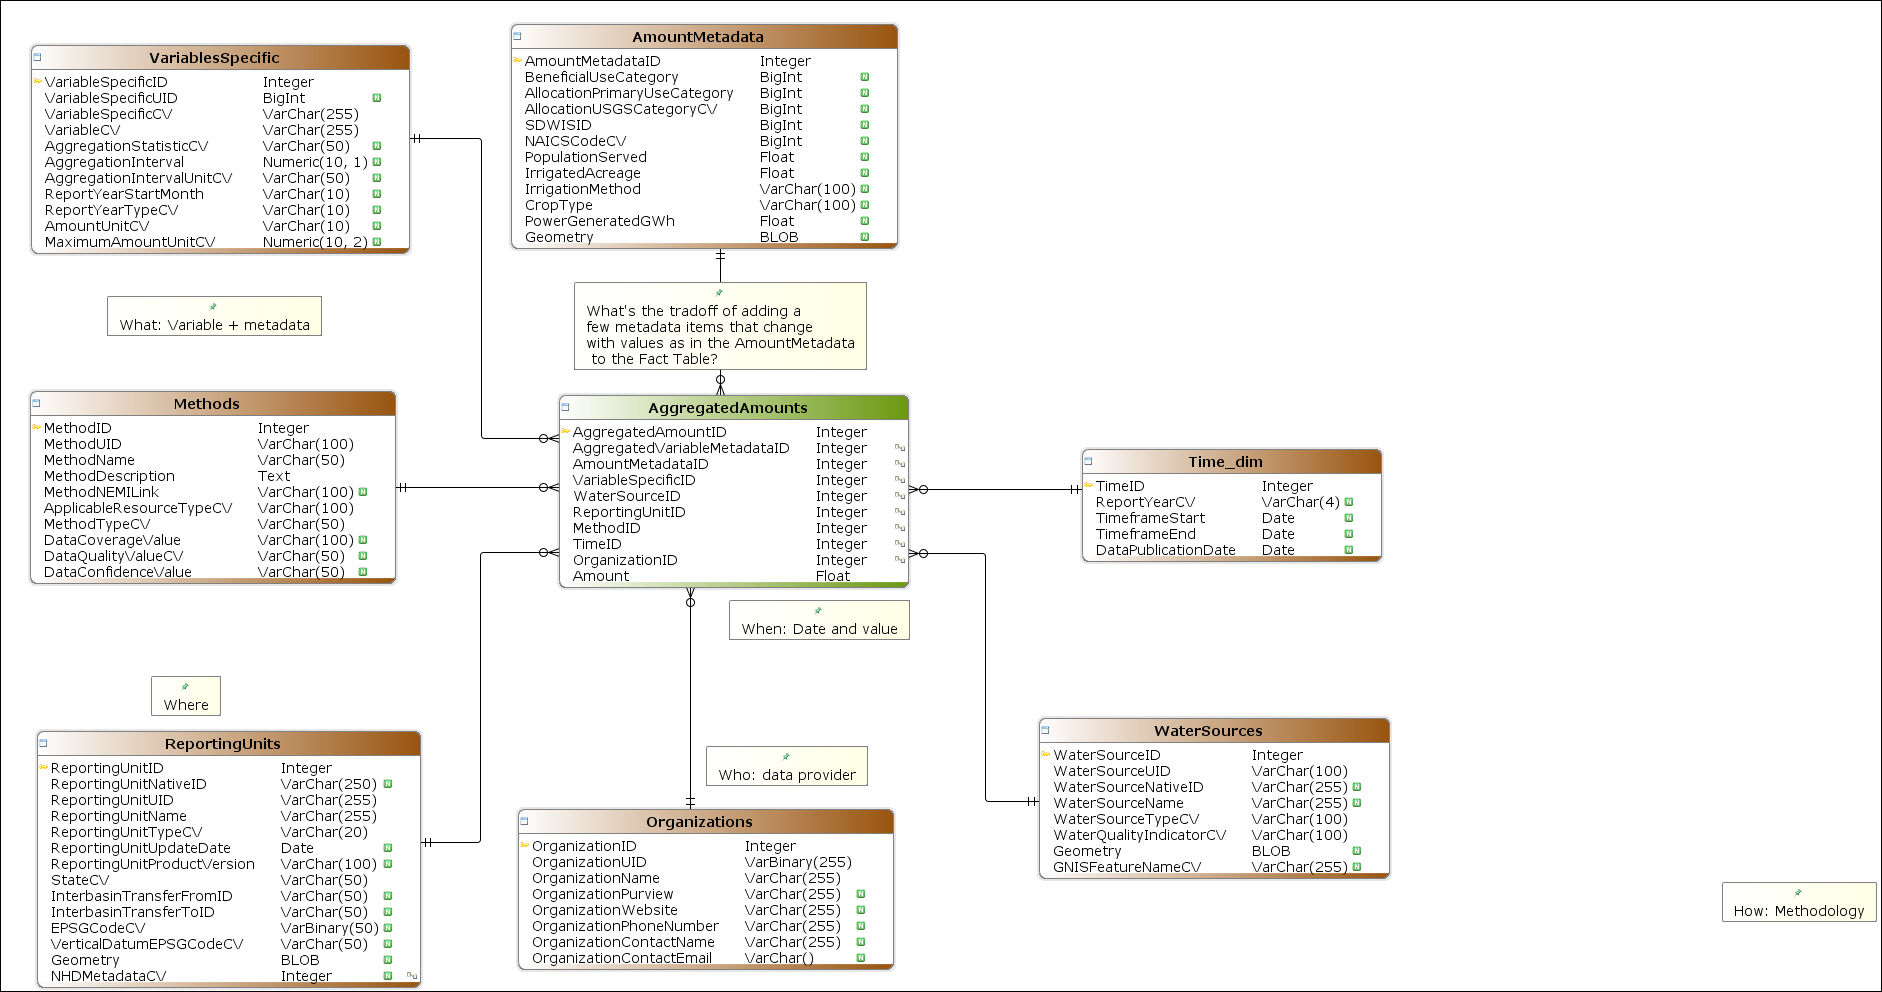
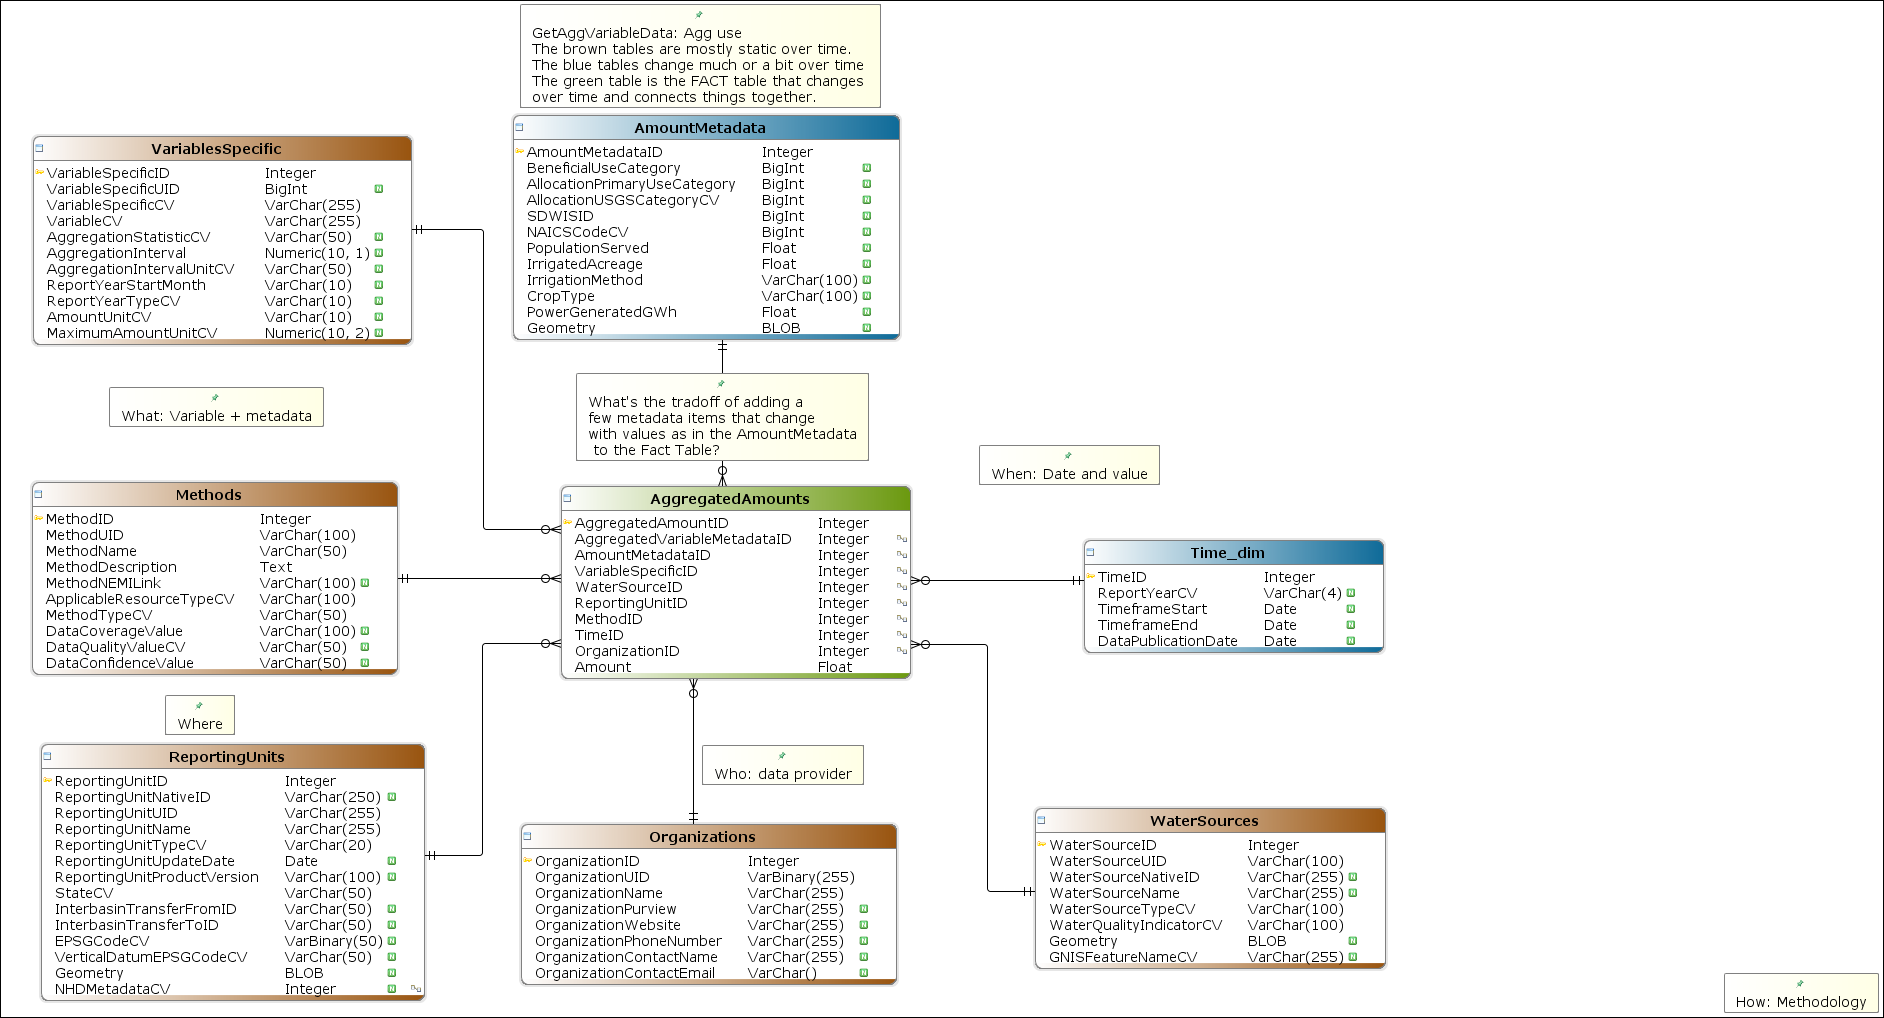
add a note for each Get call

diff --git a/docs/diagrams/1_Star_WaterAllocation.html b/docs/diagrams/1_Star_WaterAllocation.html
@@ -14,15 +14,15 @@
 <h1>Diagram: 1_Star_WaterAllocation</h1>
 <br>
 <map id="imgmap" name="imgmap">
-<area coords="32, 358, 397, 550" href="../tables/WaDE2_star_Methods.html" shape="rect">
-<area coords="40, 698, 409, 970" href="../tables/WaDE2_star_Sites.html" shape="rect">
-<area coords="1044, 446, 1343, 558" href="../tables/WaDE2_star_Time_dim.html" shape="rect">
-<area coords="529, 374, 823, 614" href="../tables/WaDE2_star_AllocationAmounts.html" shape="rect">
-<area coords="1017, 101, 1454, 325" href="../tables/WaDE2_star_Allocations.html" shape="rect">
-<area coords="1043, 658, 1393, 818" href="../tables/WaDE2_star_WaterSources.html" shape="rect">
-<area coords="31, 57, 409, 265" href="../tables/WaDE2_star_VariablesSpecific.html" shape="rect">
-<area coords="525, 801, 900, 961" href="../tables/WaDE2_star_Organizations.html" shape="rect">
-<area coords="482, 17, 868, 241" href="../tables/WaDE2_star_AmountMetadata.html" shape="rect">
+<area coords="33, 473, 398, 665" href="../tables/WaDE2_star_Methods.html" shape="rect">
+<area coords="40, 737, 409, 1009" href="../tables/WaDE2_star_Sites.html" shape="rect">
+<area coords="1045, 561, 1344, 673" href="../tables/WaDE2_star_Time_dim.html" shape="rect">
+<area coords="538, 503, 832, 743" href="../tables/WaDE2_star_AllocationAmounts.html" shape="rect">
+<area coords="1018, 216, 1455, 440" href="../tables/WaDE2_star_Allocations.html" shape="rect">
+<area coords="1042, 795, 1392, 955" href="../tables/WaDE2_star_WaterSources.html" shape="rect">
+<area coords="32, 172, 410, 380" href="../tables/WaDE2_star_VariablesSpecific.html" shape="rect">
+<area coords="521, 836, 896, 996" href="../tables/WaDE2_star_Organizations.html" shape="rect">
+<area coords="483, 132, 869, 356" href="../tables/WaDE2_star_AmountMetadata.html" shape="rect">
 </map>
 <img src="1_Star_WaterAllocation.png" usemap="#imgmap"></body>
 </HTML>

diff --git a/docs/diagrams/2_Star_SiteSpecific.html b/docs/diagrams/2_Star_SiteSpecific.html
@@ -14,15 +14,15 @@
 <h1>Diagram: 2_Star_SiteSpecific</h1>
 <br>
 <map id="imgmap" name="imgmap">
-<area coords="24, 375, 389, 567" href="../tables/WaDE2_star_Methods.html" shape="rect">
-<area coords="37, 724, 406, 996" href="../tables/WaDE2_star_Sites.html" shape="rect">
-<area coords="1009, 495, 1308, 607" href="../tables/WaDE2_star_Time_dim.html" shape="rect">
-<area coords="557, 438, 851, 646" href="../tables/WaDE2_star_SiteVariableAmounts.html" shape="rect">
-<area coords="997, 740, 1347, 900" href="../tables/WaDE2_star_WaterSources.html" shape="rect">
-<area coords="26, 46, 404, 254" href="../tables/WaDE2_star_VariablesSpecific.html" shape="rect">
-<area coords="1014, 114, 1451, 338" href="../tables/WaDE2_star_Allocations.html" shape="rect">
-<area coords="509, 812, 884, 972" href="../tables/WaDE2_star_Organizations.html" shape="rect">
-<area coords="490, 21, 876, 245" href="../tables/WaDE2_star_AmountMetadata.html" shape="rect">
+<area coords="16, 474, 381, 666" href="../tables/WaDE2_star_Methods.html" shape="rect">
+<area coords="22, 735, 391, 1007" href="../tables/WaDE2_star_Sites.html" shape="rect">
+<area coords="1001, 604, 1300, 716" href="../tables/WaDE2_star_Time_dim.html" shape="rect">
+<area coords="549, 547, 843, 755" href="../tables/WaDE2_star_SiteVariableAmounts.html" shape="rect">
+<area coords="994, 814, 1344, 974" href="../tables/WaDE2_star_WaterSources.html" shape="rect">
+<area coords="18, 155, 396, 363" href="../tables/WaDE2_star_VariablesSpecific.html" shape="rect">
+<area coords="1006, 223, 1443, 447" href="../tables/WaDE2_star_Allocations.html" shape="rect">
+<area coords="505, 830, 880, 990" href="../tables/WaDE2_star_Organizations.html" shape="rect">
+<area coords="482, 130, 868, 354" href="../tables/WaDE2_star_AmountMetadata.html" shape="rect">
 </map>
 <img src="2_Star_SiteSpecific.png" usemap="#imgmap"></body>
 </HTML>

diff --git a/docs/diagrams/3_Star_Aggregated.html b/docs/diagrams/3_Star_Aggregated.html
@@ -14,14 +14,14 @@
 <h1>Diagram: 3_Star_Aggregated</h1>
 <br>
 <map id="imgmap" name="imgmap">
-<area coords="37, 731, 420, 987" href="../tables/WaDE2_star_ReportingUnits.html" shape="rect">
-<area coords="30, 391, 395, 583" href="../tables/WaDE2_star_Methods.html" shape="rect">
-<area coords="1039, 718, 1389, 878" href="../tables/WaDE2_star_WaterSources.html" shape="rect">
-<area coords="31, 45, 409, 253" href="../tables/WaDE2_star_VariablesSpecific.html" shape="rect">
-<area coords="559, 395, 908, 587" href="../tables/WaDE2_star_AggregatedAmounts.html" shape="rect">
-<area coords="1082, 449, 1381, 561" href="../tables/WaDE2_star_Time_dim.html" shape="rect">
-<area coords="511, 24, 897, 248" href="../tables/WaDE2_star_AmountMetadata.html" shape="rect">
-<area coords="518, 809, 893, 969" href="../tables/WaDE2_star_Organizations.html" shape="rect">
+<area coords="41, 744, 424, 1000" href="../tables/WaDE2_star_ReportingUnits.html" shape="rect">
+<area coords="32, 482, 397, 674" href="../tables/WaDE2_star_Methods.html" shape="rect">
+<area coords="1035, 808, 1385, 968" href="../tables/WaDE2_star_WaterSources.html" shape="rect">
+<area coords="33, 136, 411, 344" href="../tables/WaDE2_star_VariablesSpecific.html" shape="rect">
+<area coords="561, 486, 910, 678" href="../tables/WaDE2_star_AggregatedAmounts.html" shape="rect">
+<area coords="1084, 540, 1383, 652" href="../tables/WaDE2_star_Time_dim.html" shape="rect">
+<area coords="513, 115, 899, 339" href="../tables/WaDE2_star_AmountMetadata.html" shape="rect">
+<area coords="521, 824, 896, 984" href="../tables/WaDE2_star_Organizations.html" shape="rect">
 </map>
 <img src="3_Star_Aggregated.png" usemap="#imgmap"></body>
 </HTML>

diff --git a/docs/diagrams/index.html b/docs/diagrams/index.html
@@ -18,7 +18,7 @@
 <td class="header"><a href="../diagrams/1_Star_WaterAllocation.html">1_Star_WaterAllocation</a></td>
 </tr>
 <tr>
-<td class="diagramThumb"><a href="../diagrams/1_Star_WaterAllocation.html"><img height="333" src="../diagrams/1_Star_WaterAllocation.png" width="500"></a></td>
+<td class="diagramThumb"><a href="../diagrams/1_Star_WaterAllocation.html"><img height="346" src="../diagrams/1_Star_WaterAllocation.png" width="500"></a></td>
 </tr>
 </table>
 <br>
@@ -27,7 +27,7 @@
 <td class="header"><a href="../diagrams/2_Star_SiteSpecific.html">2_Star_SiteSpecific</a></td>
 </tr>
 <tr>
-<td class="diagramThumb"><a href="../diagrams/2_Star_SiteSpecific.html"><img height="343" src="../diagrams/2_Star_SiteSpecific.png" width="500"></a></td>
+<td class="diagramThumb"><a href="../diagrams/2_Star_SiteSpecific.html"><img height="348" src="../diagrams/2_Star_SiteSpecific.png" width="500"></a></td>
 </tr>
 </table>
 <br>
@@ -36,7 +36,7 @@
 <td class="header"><a href="../diagrams/3_Star_Aggregated.html">3_Star_Aggregated</a></td>
 </tr>
 <tr>
-<td class="diagramThumb"><a href="../diagrams/3_Star_Aggregated.html"><img height="262" src="../diagrams/3_Star_Aggregated.png" width="500"></a></td>
+<td class="diagramThumb"><a href="../diagrams/3_Star_Aggregated.html"><img height="269" src="../diagrams/3_Star_Aggregated.png" width="500"></a></td>
 </tr>
 </table>
 <br>

diff --git a/docs/index.html b/docs/index.html
@@ -51,7 +51,7 @@
 <div class="paragraph">
 <p>
 <b>Documented with DbWrench  </b>
-<k>28 Jan 2019 - 03:16:05 PM</k>
+<k>28 Jan 2019 - 03:37:47 PM</k>
 </p>
 </div>
 </body>
